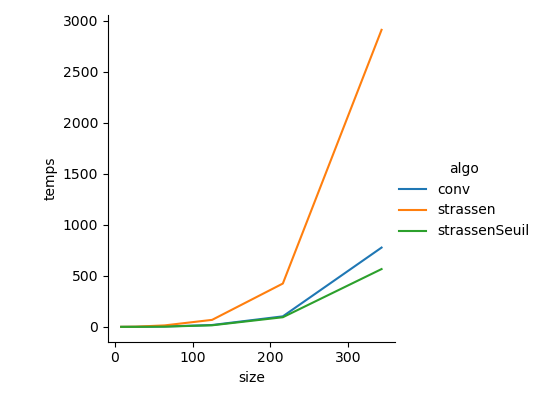
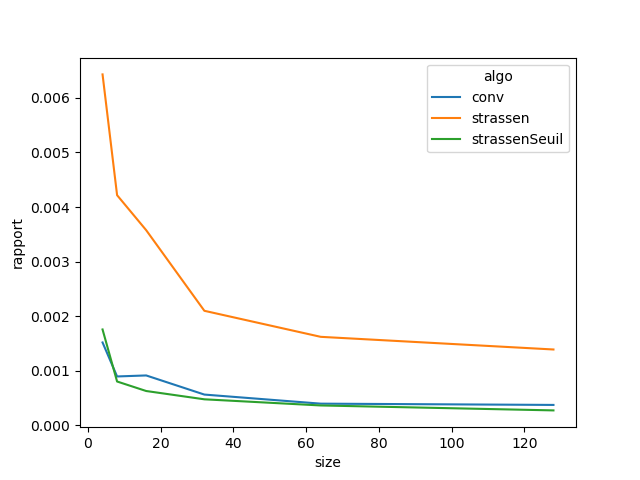
graph

diff --git a/TP1-A23/analyse.py b/TP1-A23/analyse.py
@@ -1,19 +1,41 @@
 import pandas as pd
 import matplotlib.pyplot as plt
 import seaborn as sns
+from scipy import stats
 
-df = pd.read_csv('results.csv').groupby(['algo','size']).mean().reset_index()
-df['size'] = 2**df['size']
-g = sns.FacetGrid(df, hue='algo',  aspect=1)
-g = g.map(plt.plot, 'size', 'temps')
-g.set(xscale='log')
-g.set(yscale='log')
-g.add_legend()
-plt.savefig('test_puissance')
+def plot_test_puissance():
+    df = pd.read_csv('results.csv').groupby(['algo','size']).mean().reset_index()
+    df['size'] = 2**df['size']
+    g = sns.FacetGrid(df, hue='algo',  aspect=1)
+    g = g.map(plt.plot, 'size', 'temps')
+    g.set(xscale='log')
+    g.set(yscale='log')
+    g.add_legend()
+    plt.savefig('test_puissance')
+    plt.close()
 
+def plot_test_rapport():
+    df = pd.read_csv('results.csv').groupby(['algo','size']).mean().reset_index()
+    df['size'] = 2**df['size']
+    df['rapport'] = df['temps']/df['size']**3
+    g2 = sns.lineplot(df, x="size", y="rapport", hue='algo')
+    for algo in df['algo'].unique():
+        last_point = df[df['algo']==algo].tail(1)['rapport'].values[0]
+        print(f"Rapport = {last_point} pour l'algorithme {algo}")
+    plt.savefig('test_rapport')
+    plt.close()
 
-# df = pd.read_csv('results.csv').groupby(['algo','size']).mean().reset_index()
-# df['rapport'] = df['temps']/df['size']**3
-# g2 = sns.lineplot(df, x="size", y="rapport", hue='algo', size=4, aspect=1)
-# g2.add_legend()
-# plt.savefig('test_rapport')
+def plot_test_constante():
+    df = pd.read_csv('results.csv').groupby(['algo','size']).mean().reset_index()
+    df['size'] = 2**df['size']
+    df['Fn'] = df['size']**3
+    for algo in df['algo'].unique():
+        slope, intercept, r_value, p_value, std_err = stats.linregress(df[df['algo']==algo]['Fn'],df[df['algo']==algo]['temps'])
+        print(f"Temps = {slope} * Fn + {intercept} pour l'algorithme {algo}")
+    g2 = sns.lineplot(df, x="Fn", y="temps", hue='algo')
+    plt.savefig('test_constante')
+    plt.close()
+
+plot_test_puissance()
+plot_test_rapport()
+plot_test_constante()
